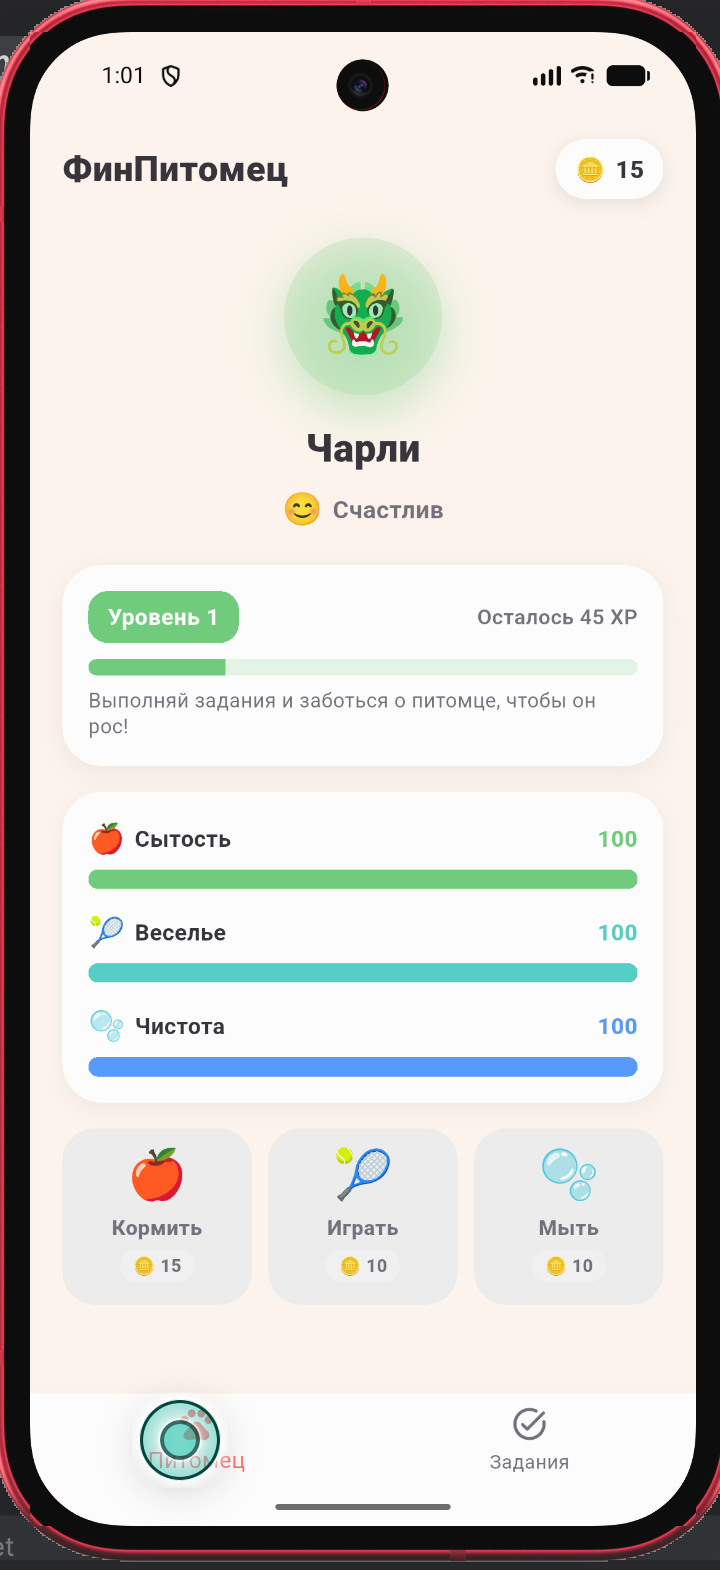
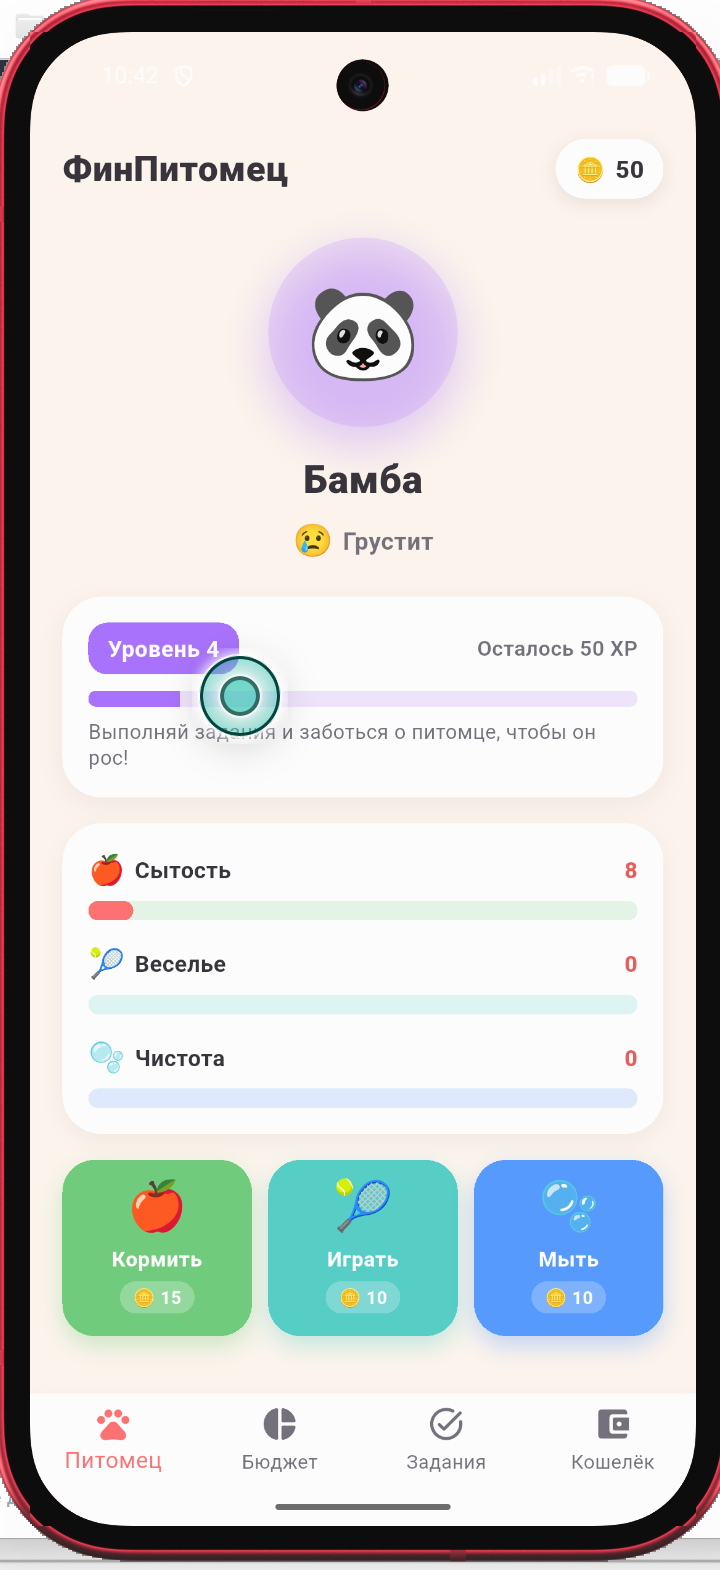
read.md

diff --git a/financial_pet/lib/data/content/education_goals.dart b/financial_pet/lib/data/content/education_goals.dart
@@ -1,0 +1,18 @@
+/// Цели приложения (ТЗ §8.12): что ребёнок учится делать.
+///
+/// Учебный контент вынесен в отдельный слой (`data/content`) и отделён
+/// от интерфейсного кода — тексты можно менять, не трогая экран (ТЗ §4).
+/// В разделе для взрослого показываются как есть, без «оценок» ребёнка.
+const List<String> appGoals = [
+  'Планировать: распределять на обязательное, желаемое и копилку.',
+  'Различать обязательные и необязательные траты.',
+  'Копить на цель и видеть свой прогресс.',
+  'Принимать финансовые решения и понимать их последствия.',
+];
+
+/// Короткое описание тем (для раздела для взрослого).
+const Map<String, String> topicExplanations = {
+  'planningBudget': 'Составлять бюджет и укладываться в план.',
+  'savings': 'Откладывать на цель и копить регулярно.',
+  'payments': 'Планировать покупки и проверять, что куплено разумно.',
+};

diff --git a/financial_pet/lib/core/services/task_service.dart b/financial_pet/lib/core/services/task_service.dart
@@ -123,6 +123,18 @@ class TaskService extends ChangeNotifier {
   /// Лучший стрик за всё время (бейджи считаются по нему).
   int get maxStreak => _maxStreak;
 
+  /// Прогресс по каждой теме: (выполнено, всего) по всем заданиям контента.
+  /// Для раздела для взрослого (ТЗ §8.12: «пройденные темы»).
+  Map<TaskTopic, (int, int)> get topicProgress {
+    final progress = <TaskTopic, (int, int)>{};
+    for (final t in content) {
+      final (done, all) = progress[t.topic] ?? (0, 0);
+      progress[t.topic] =
+          (done + (_completed.containsKey(t.id) ? 1 : 0), all + 1);
+    }
+    return progress;
+  }
+
   /// Найти задание по id из сегодняшнего набора.
   Task? taskById(String id) =>
       _selected.where((t) => t.id == id).firstOrNull;

diff --git a/financial_pet/README.md b/financial_pet/README.md
@@ -32,4 +32,6 @@ samples, guidance on mobile development, and a full API reference.
 
 ![Preview](pet1.png)
 ![Preview](pet2.png)
+![Preview](pet3.png)
+![Preview](pet4.png)
 
